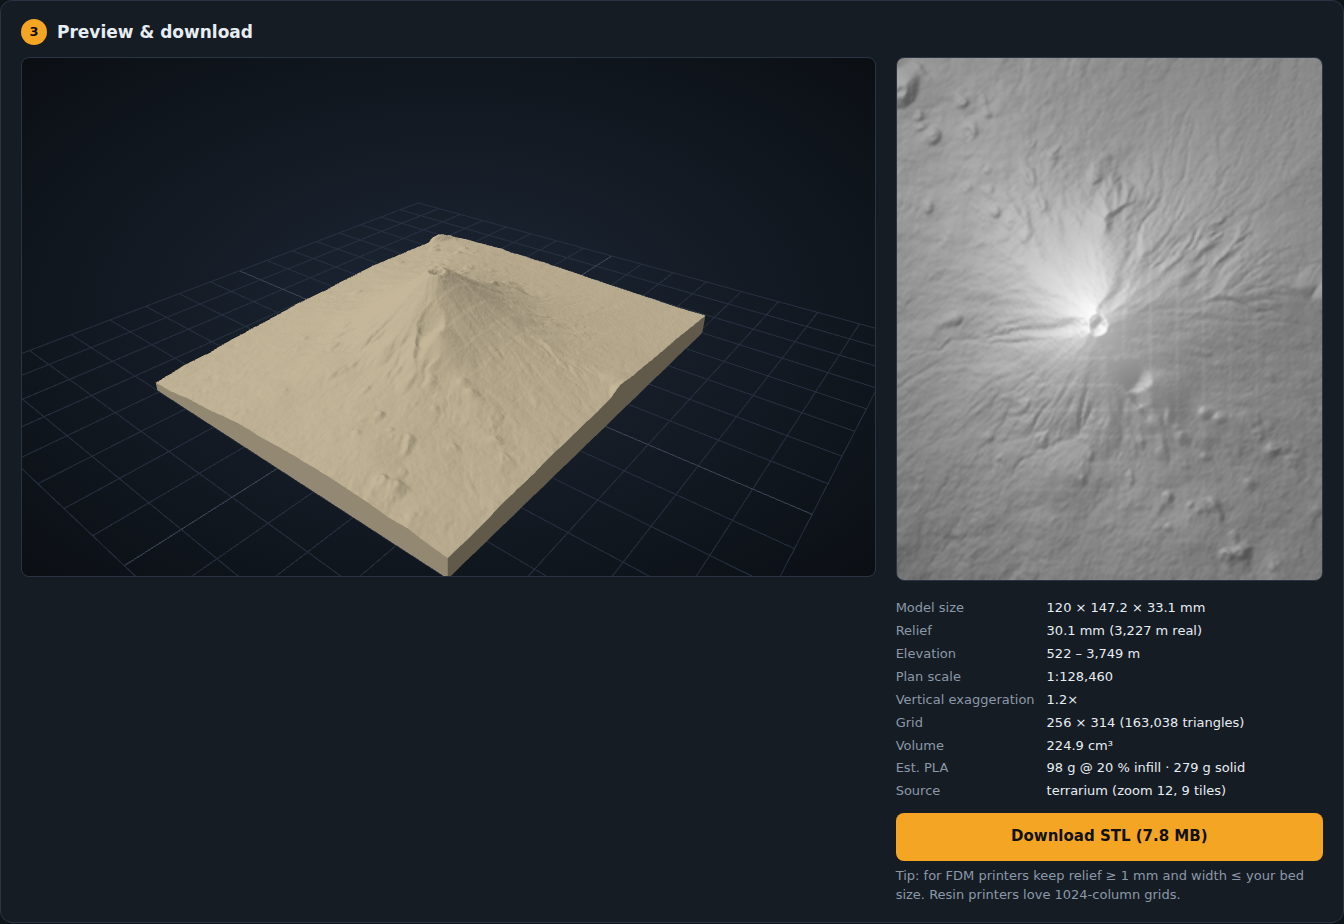
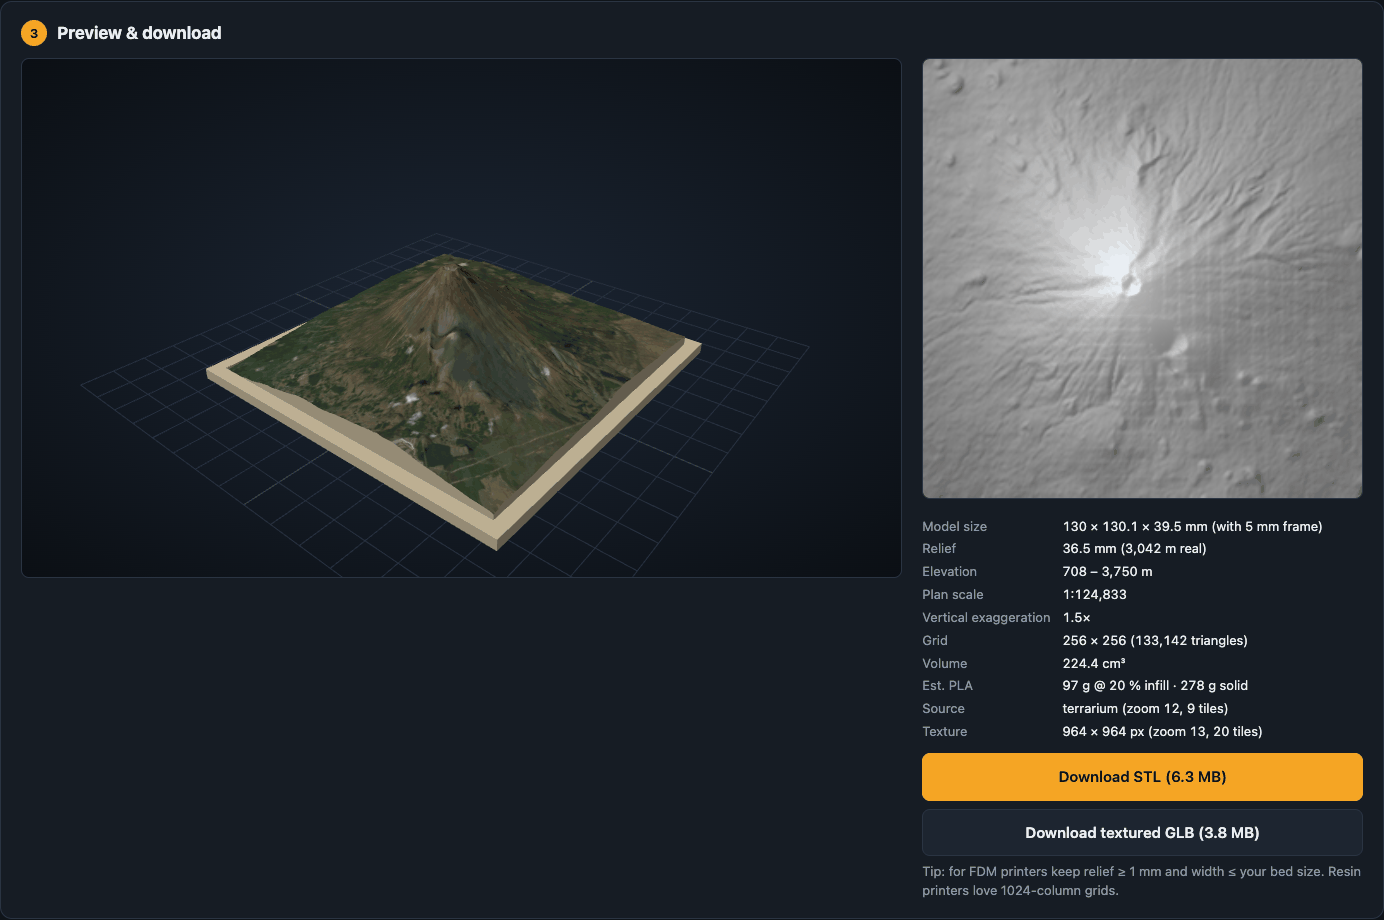
feat: theme toggle, version and docs link, viewer zoom, water levelling fix, new docs images
Web app: light/dark theme toggle with sun and moon icons, following the
system setting on first visit; version pill and Docs link in the header;
3D preview scroll and pinch zoom handled in proportion to the gesture
(Safari gesture events included); presets now set the Bridges checkbox.

Fix: level_water simplifies water outlines to the grid's resolution before
buffering. The tiles draw coasts far finer than the grid, and a very large
area took 5 GB; it now takes 170 MB. A regression test covers it.

Docs: refreshed screenshot and Fuji preview, plus light-theme, landmark and
bridge images.

diff --git a/satprint/static/app.js b/satprint/static/app.js
@@ -6,6 +6,34 @@ const $ = (id) => document.getElementById(id);
 const fmt = (v, d = 1) => Number(v).toLocaleString(undefined, { maximumFractionDigits: d });
 const status = (msg, cls = "") => { const el = $("status"); el.textContent = msg; el.className = "hint " + cls; };
 
+// ───────────────────────── version ─────────────────────────
+fetch("/api/health").then((r) => r.json()).then((h) => {
+  if (!h.version) return;
+  $("version").textContent = "v" + h.version;
+  $("version").href = "https://github.com/suchanek/satprint/releases/tag/v" + h.version;
+  $("version").hidden = false;
+}).catch(() => {});
+
+// ───────────────────────── theme ─────────────────────────
+// The page sets data-theme before first paint (see index.html); this flips it.
+const isLight = () => document.documentElement.dataset.theme === "light";
+// The icon shows what a click switches to: a sun in the dark theme, a moon in the light one.
+const ICON_SUN = '<svg viewBox="0 0 24 24" width="18" height="18" fill="none" stroke="currentColor" stroke-width="2" stroke-linecap="round" aria-hidden="true"><circle cx="12" cy="12" r="4"/><path d="M12 2v2M12 20v2M2 12h2M20 12h2M4.9 4.9l1.4 1.4M17.7 17.7l1.4 1.4M4.9 19.1l1.4-1.4M17.7 6.3l1.4-1.4"/></svg>';
+const ICON_MOON = '<svg viewBox="0 0 24 24" width="18" height="18" fill="currentColor" aria-hidden="true"><path d="M21 12.8A9 9 0 1 1 11.2 3a7 7 0 0 0 9.8 9.8z"/></svg>';
+function paintThemeButton() {
+  const b = $("theme-toggle");
+  b.innerHTML = isLight() ? ICON_MOON : ICON_SUN;
+  b.title = isLight() ? "Switch to dark theme" : "Switch to light theme";
+}
+paintThemeButton();
+$("theme-toggle").addEventListener("click", () => {
+  const next = isLight() ? "dark" : "light";
+  document.documentElement.dataset.theme = next;
+  try { localStorage.setItem("satprint-theme", next); } catch (e) {}
+  paintThemeButton();
+  if (typeof viewer !== "undefined" && viewer && viewer.grid) addGrid(viewer);
+});
+
 // ───────────────────────── map ─────────────────────────
 const hasLeaflet = typeof L !== "undefined";
 const map = hasLeaflet ? L.map("map", { worldCopyJump: true }).setView([45.975, 7.65], 11) : null;
@@ -133,6 +161,7 @@ $("presets").addEventListener("change", (e) => {
   const p = JSON.parse(e.target.value);
   const [south, west, north, east] = p.bbox;
   $("buildings").checked = p.buildings;
+  $("bridges").checked = p.buildings;
   setBBox({ south, west, north, east }, { fit: true });
   $("name").value = slug(p.name);
   document.querySelector('input[name=source][value=terrarium]').checked = true;
@@ -246,6 +275,24 @@ function initViewer() {
     const camera = new THREE.PerspectiveCamera(40, 1, 0.1, 5000);
     const controls = new OrbitControls(camera, renderer.domElement);
     controls.enableDamping = true;
+    // OrbitControls' wheel zoom is divided by the device pixel ratio and a
+    // trackpad pinch sends tiny steps, so zooming takes many pinches, and
+    // Safari reports a pinch as gesture events it ignores. Zoom here instead,
+    // in proportion to the gesture; touch screens keep OrbitControls' own.
+    const dolly = (factor) => {
+      const offset = camera.position.clone().sub(controls.target);
+      const dist = Math.min(Math.max(offset.length() * factor, 2), 4500);   // inside the clip planes
+      camera.position.copy(controls.target).add(offset.setLength(dist));
+    };
+    viewerEl.addEventListener("wheel", (e) => {
+      e.preventDefault(); e.stopPropagation();
+      const dy = e.deltaY * (e.deltaMode === 1 ? 16 : 1);   // lines -> pixels
+      dolly(Math.exp(dy * (e.ctrlKey ? 0.01 : 0.004)));      // ctrl: a pinch
+    }, { passive: false, capture: true });
+    let pinch = 1;
+    viewerEl.addEventListener("gesturestart", (e) => { e.preventDefault(); pinch = 1; });
+    viewerEl.addEventListener("gesturechange", (e) => { e.preventDefault(); dolly(pinch / e.scale); pinch = e.scale; });
+    viewerEl.addEventListener("gestureend", (e) => e.preventDefault());
     scene.add(new THREE.HemisphereLight(0xffffff, 0x334455, 1.1));
     const sun = new THREE.DirectionalLight(0xffffff, 1.6); sun.position.set(-1, 1.5, 1); scene.add(sun);
     const material = new THREE.MeshStandardMaterial({ color: 0xd9c9a8, metalness: 0.05, roughness: 0.85 });
@@ -278,6 +325,14 @@ function disposeModel(v) {
 }
 
 // Show the textured GLB when there is one, otherwise the STL.
+// The floor grid, in colors that suit the theme; replaces any earlier one.
+function addGrid(v) {
+  if (v.grid) v.scene.remove(v.grid);
+  const [center, lines] = isLight() ? [0x8a96a6, 0xb4bdc9] : [0x3a4656, 0x263040];
+  v.grid = new v.THREE.GridHelper(v.gridSize, 16, center, lines);
+  v.grid.position.y = v.gridY;
+  v.scene.add(v.grid);
+}
 // GLB is in meters, Y up; STL is in mm, Z up. Both end up in mm, Y up, centered.
 async function showModel(buffer, info, isGLB) {
   let v;
@@ -289,7 +344,6 @@ async function showModel(buffer, info, isGLB) {
   }
   const { THREE, STLLoader, GLTFLoader, scene, camera, controls, material } = v;
   disposeModel(v);
-  if (v.grid) scene.remove(v.grid);
   if (isGLB) {
     const gltf = await new GLTFLoader().parseAsync(buffer, "");
     const model = gltf.scene;
@@ -307,9 +361,8 @@ async function showModel(buffer, info, isGLB) {
   }
   scene.add(v.mesh);
   const size = Math.max(info.width_mm, info.depth_mm);
-  v.grid = new THREE.GridHelper(size * 1.6, 16, 0x3a4656, 0x263040);
-  v.grid.position.y = -info.height_mm / 2;
-  scene.add(v.grid);
+  v.gridSize = size * 1.6; v.gridY = -info.height_mm / 2;
+  addGrid(v);
   camera.position.set(size * 0.9, size * 0.75, size * 1.1);
   controls.target.set(0, 0, 0); controls.update();
   viewerEl.querySelector(".placeholder")?.remove();

diff --git a/satprint/static/style.css b/satprint/static/style.css
@@ -1,7 +1,16 @@
 :root {
+  color-scheme: dark;
   --bg: #0f1419; --panel: #161c24; --panel-2: #1d2530; --line: #2a3442;
   --text: #e6edf3; --muted: #8b98a8; --accent: #f5a524; --accent-2: #3fb68b;
   --danger: #ff6b6b; --radius: 12px;
+  --viewer-1: #1c2634; --viewer-2: #0b0f14; --map-bg: #000;
+}
+:root[data-theme="light"] {
+  color-scheme: light;
+  --bg: #f3f5f8; --panel: #ffffff; --panel-2: #eef1f5; --line: #d3dae3;
+  --text: #1a2330; --muted: #566274; --accent: #d98a00; --accent-2: #1f8f6b;
+  --danger: #d03a3a;
+  --viewer-1: #f4f7fb; --viewer-2: #cfd8e3; --map-bg: #dde3ea;
 }
 * { box-sizing: border-box; }
 html, body { margin: 0; background: var(--bg); color: var(--text);
@@ -12,8 +21,13 @@ header { display: flex; justify-content: space-between; align-items: center;
 .brand { display: flex; gap: 14px; align-items: center; }
 .logo { display: block; width: 44px; height: auto; }
 h1 { margin: 0; font-size: 22px; letter-spacing: .02em; }
+.version { font-size: 12px; font-weight: 600; letter-spacing: 0; color: var(--muted); text-decoration: none;
+  border: 1px solid var(--line); border-radius: 999px; padding: 1px 8px; vertical-align: middle; }
+.version:hover { color: var(--text); }
 header p { margin: 2px 0 0; color: var(--muted); font-size: 13px; }
+nav { display: flex; gap: 16px; align-items: center; }
 nav a { text-decoration: none; color: var(--muted); font-weight: 600; }
+nav button { padding: 6px 8px; line-height: 0; }
 
 main { display: grid; grid-template-columns: 1.4fr 1fr; gap: 20px; padding: 20px 28px; max-width: 1500px; margin: 0 auto; }
 .panel { background: var(--panel); border: 1px solid var(--line); border-radius: var(--radius); padding: 18px 20px; }
@@ -22,7 +36,7 @@ h2 { margin: 0 0 12px; font-size: 17px; display: flex; align-items: center; gap:
 .step { display: inline-grid; place-items: center; width: 26px; height: 26px; border-radius: 50%;
   background: var(--accent); color: #111; font-weight: 700; font-size: 13px; }
 
-#map { height: 420px; border-radius: 8px; border: 1px solid var(--line); background: #000; }
+#map { height: 420px; border-radius: 8px; border: 1px solid var(--line); background: var(--map-bg); }
 #map.drawing { cursor: crosshair; }
 .toolbar { display: flex; flex-wrap: wrap; gap: 10px; align-items: center; margin-bottom: 12px; }
 .bbox-grid { display: grid; grid-template-columns: repeat(4, 1fr); gap: 8px; margin-top: 12px; }
@@ -52,7 +66,7 @@ details.upload { margin-top: 14px; border-top: 1px dashed var(--line); padding-t
 summary { cursor: pointer; color: var(--muted); font-size: 13px; }
 
 .preview-row { display: grid; grid-template-columns: 2fr 1fr; gap: 20px; }
-#viewer { position: relative; height: 520px; border-radius: 8px; border: 1px solid var(--line); background: radial-gradient(#1c2634, #0b0f14); overflow: hidden; }
+#viewer { position: relative; height: 520px; border-radius: 8px; border: 1px solid var(--line); background: radial-gradient(var(--viewer-1), var(--viewer-2)); overflow: hidden; }
 #viewer canvas { display: block; }
 .placeholder { position: absolute; inset: 0; display: grid; place-items: center; text-align: center; color: var(--muted); font-size: 14px; pointer-events: none; }
 aside img { width: 100%; border-radius: 8px; border: 1px solid var(--line); image-rendering: auto; }

diff --git a/satprint/static/index.html b/satprint/static/index.html
@@ -8,6 +8,16 @@
 <link rel="stylesheet" href="https://unpkg.com/leaflet@1.9.4/dist/leaflet.css"
       integrity="sha256-p4NxAoJBhIIN+hmNHrzRCf9tD/miZyoHS5obTRR9BMY=" crossorigin="">
 <link rel="stylesheet" href="/static/style.css">
+<script>
+// Before first paint, so a light page does not flash dark: the saved choice,
+// else the system's.
+(function () {
+  var t = null;
+  try { t = localStorage.getItem("satprint-theme"); } catch (e) {}
+  if (t !== "light" && t !== "dark") t = matchMedia("(prefers-color-scheme: light)").matches ? "light" : "dark";
+  document.documentElement.dataset.theme = t;
+})();
+</script>
 <script type="importmap">
 { "imports": {
     "three": "https://unpkg.com/three@0.160.0/build/three.module.js",
@@ -20,11 +30,13 @@
   <div class="brand">
     <img class="logo" src="/static/satprint-mark.svg" alt="" width="44" height="41">
     <div>
-      <h1>satprint</h1>
+      <h1>satprint <a id="version" class="version" href="https://github.com/suchanek/satprint/releases" target="_blank" rel="noopener" title="Release notes" hidden></a></h1>
       <p>Pick a place on Earth. Get a 3D-printable terrain model.</p>
     </div>
   </div>
   <nav>
+    <button id="theme-toggle" type="button" aria-label="Switch between light and dark theme"></button>
+    <a href="https://suchanek.github.io/satprint/" target="_blank" rel="noopener">Docs</a>
     <a href="/docs" target="_blank" rel="noopener">API</a>
   </nav>
 </header>

diff --git a/satprint/water.py b/satprint/water.py
@@ -82,10 +82,13 @@ def level_water(hm: Heightmap, tiles: list[tuple[int, int, int, bytes]]) -> Heig
     # pieces cut at a tile edge are joined first so each body has one shore
     to_px = model_projection(hm.bbox, cols - 1, rows - 1)
     bodies = _polygons(unary_union([shapely.transform(p, to_px) for p in shapes]))
+    # The tiles outline a coast far finer than the grid; buffering that is
+    # slow and uses gigabytes, so keep the detail to a fraction of a node.
+    bodies = [b for body in bodies for b in _polygons(body.simplify(0.25))]
     data = hm.data.copy()
     changed = False
     for body in bodies:
-        x0, y0, x1, y1 = body.buffer(SHORE_PX[1]).bounds
+        x0, y0, x1, y1 = body.buffer(SHORE_PX[1], quad_segs=2).bounds
         c0, c1 = max(int(np.floor(x0)), 0), min(int(np.ceil(x1)), cols - 1)
         r0, r1 = (
             max(int(np.floor(rows - 1 - y1)), 0),
@@ -96,8 +99,8 @@ def level_water(hm: Heightmap, tiles: list[tuple[int, int, int, bytes]]) -> Heig
         gx, gy = np.meshgrid(np.arange(c0, c1 + 1), rows - 1 - np.arange(r0, r1 + 1))
         inside = shapely.contains_xy(body, gx, gy)
         shore = shapely.contains_xy(
-            body.buffer(SHORE_PX[1]), gx, gy
-        ) & ~shapely.contains_xy(body.buffer(SHORE_PX[0]), gx, gy)
+            body.buffer(SHORE_PX[1], quad_segs=2), gx, gy
+        ) & ~shapely.contains_xy(body.buffer(SHORE_PX[0], quad_segs=2), gx, gy)
         if inside.sum() < 4 or not shore.any():
             continue
         window = data[r0 : r1 + 1, c0 : c1 + 1]

diff --git a/tests/test_water.py b/tests/test_water.py
@@ -206,3 +206,31 @@ def test_level_water_leaves_rivers_and_flat_lakes_alone():
         level_water(Heightmap(hm.data, 800.0, 800.0, "t"), _lake_tile("lake")).bbox
         is None
     )
+
+
+def test_level_water_handles_an_outline_finer_than_the_grid():
+    """A coast drawn in thousands of tiny steps, as the tiles have it, took
+    gigabytes to buffer before the outline was simplified."""
+    import time
+
+    from shapely import Polygon
+
+    rng = np.random.default_rng(0)
+    t = np.linspace(0, 2 * np.pi, 6000, endpoint=False)
+    r = 1000 + rng.integers(-4, 5, t.size)  # jagged at a fraction of a node
+    ring = Polygon(np.column_stack([2048 + r * np.cos(t), 2048 + r * np.sin(t)]))
+    tile = [
+        (
+            14,
+            4824,
+            6157,
+            encode_tile(
+                [{"geometry": ring, "properties": {"class": "lake"}}], layer="water"
+            ),
+        )
+    ]
+    hm = _lake_heightmap()
+    start = time.monotonic()
+    out = level_water(hm, tile)
+    assert time.monotonic() - start < 1
+    assert out.data[32, 32] == pytest.approx(40.0)  # the lake's middle

diff --git a/CHANGELOG.md b/CHANGELOG.md
@@ -8,6 +8,11 @@ project uses [Semantic Versioning](https://semver.org/spec/v2.0.0.html).
 
 ### Fixed
 
+- **3D preview zoom.** Scroll and pinch zoom in proportion to the gesture. The
+  controls library's own wheel zoom is divided by the device pixel ratio, and
+  Safari reports a trackpad pinch as gesture events it ignored.
+- **Presets set the Bridges checkbox** along with the buildings one, so a
+  mountain preset no longer carries over an area too large for bridges.
 - **Lakes printed as raised plateaus.** Elevation data over water is noisy, and
   a lake in a steep valley, such as the Lagoa in Rio, can read tens of meters
   above its shore. Each lake, pond, reservoir and sea surface is now set to the
@@ -18,6 +23,11 @@ project uses [Semantic Versioning](https://semver.org/spec/v2.0.0.html).
 
 ### Added
 
+- **Version and docs link.** The header shows the running version, linked to its
+  release, and a Docs link to the documentation site.
+- **Light and dark theme.** A button in the header switches the page, including
+  the 3D preview, between them. The first visit follows the system setting,
+  and the choice is remembered in the browser.
 - **Mesh landmarks**: the Gateway Arch in St. Louis, the Eiffel Tower in Paris
   and the Space Needle in Seattle, which printed as solid blobs because their
   `building:part` stacks are extruded from the ground. Each is a closed

diff --git a/docs/index.md b/docs/index.md
@@ -16,9 +16,25 @@ base. You get three files from the same model:
 
 ![The satprint web app](screenshot.png)
 
-Mount Fuji from real elevation tiles, 120 mm wide, 1.2x exaggeration:
+The page follows your system's light or dark setting, and the button in the
+header switches it:
+
+![The satprint web app, light theme](screenshot-light.png)
+
+Mount Fuji from real elevation tiles, 120 mm wide with a 5 mm frame, 1.5x
+exaggeration:
 
 ![Mount Fuji preview](fuji-preview.png)
+
+Landmarks that building outlines cannot describe are built as meshes: the
+Gateway Arch, the Eiffel Tower, the Space Needle and Christ the Redeemer.
+
+![Landmarks as meshes](landmarks.png)
+
+Bridges over water get a deck on piers, here the Brooklyn and Manhattan bridges
+and the Golden Gate Bridge:
+
+![Bridges over water](bridges.png)
 
 ## What it does
 

diff --git a/README.md b/README.md
@@ -36,7 +36,8 @@ AWS Terrain Tiles        clamp sea, smooth,           terrain + walls + base
 
 ![satprint web UI](https://raw.githubusercontent.com/suchanek/satprint/v0.2.1/docs/screenshot.png)
 
-Mount Fuji from real elevation tiles, 120 mm wide, 1.2x exaggeration:
+Mount Fuji from real elevation tiles, 120 mm wide with a 5 mm frame, 1.5x
+exaggeration:
 
 ![Mount Fuji preview](https://raw.githubusercontent.com/suchanek/satprint/v0.2.1/docs/fuji-preview.png)
 
